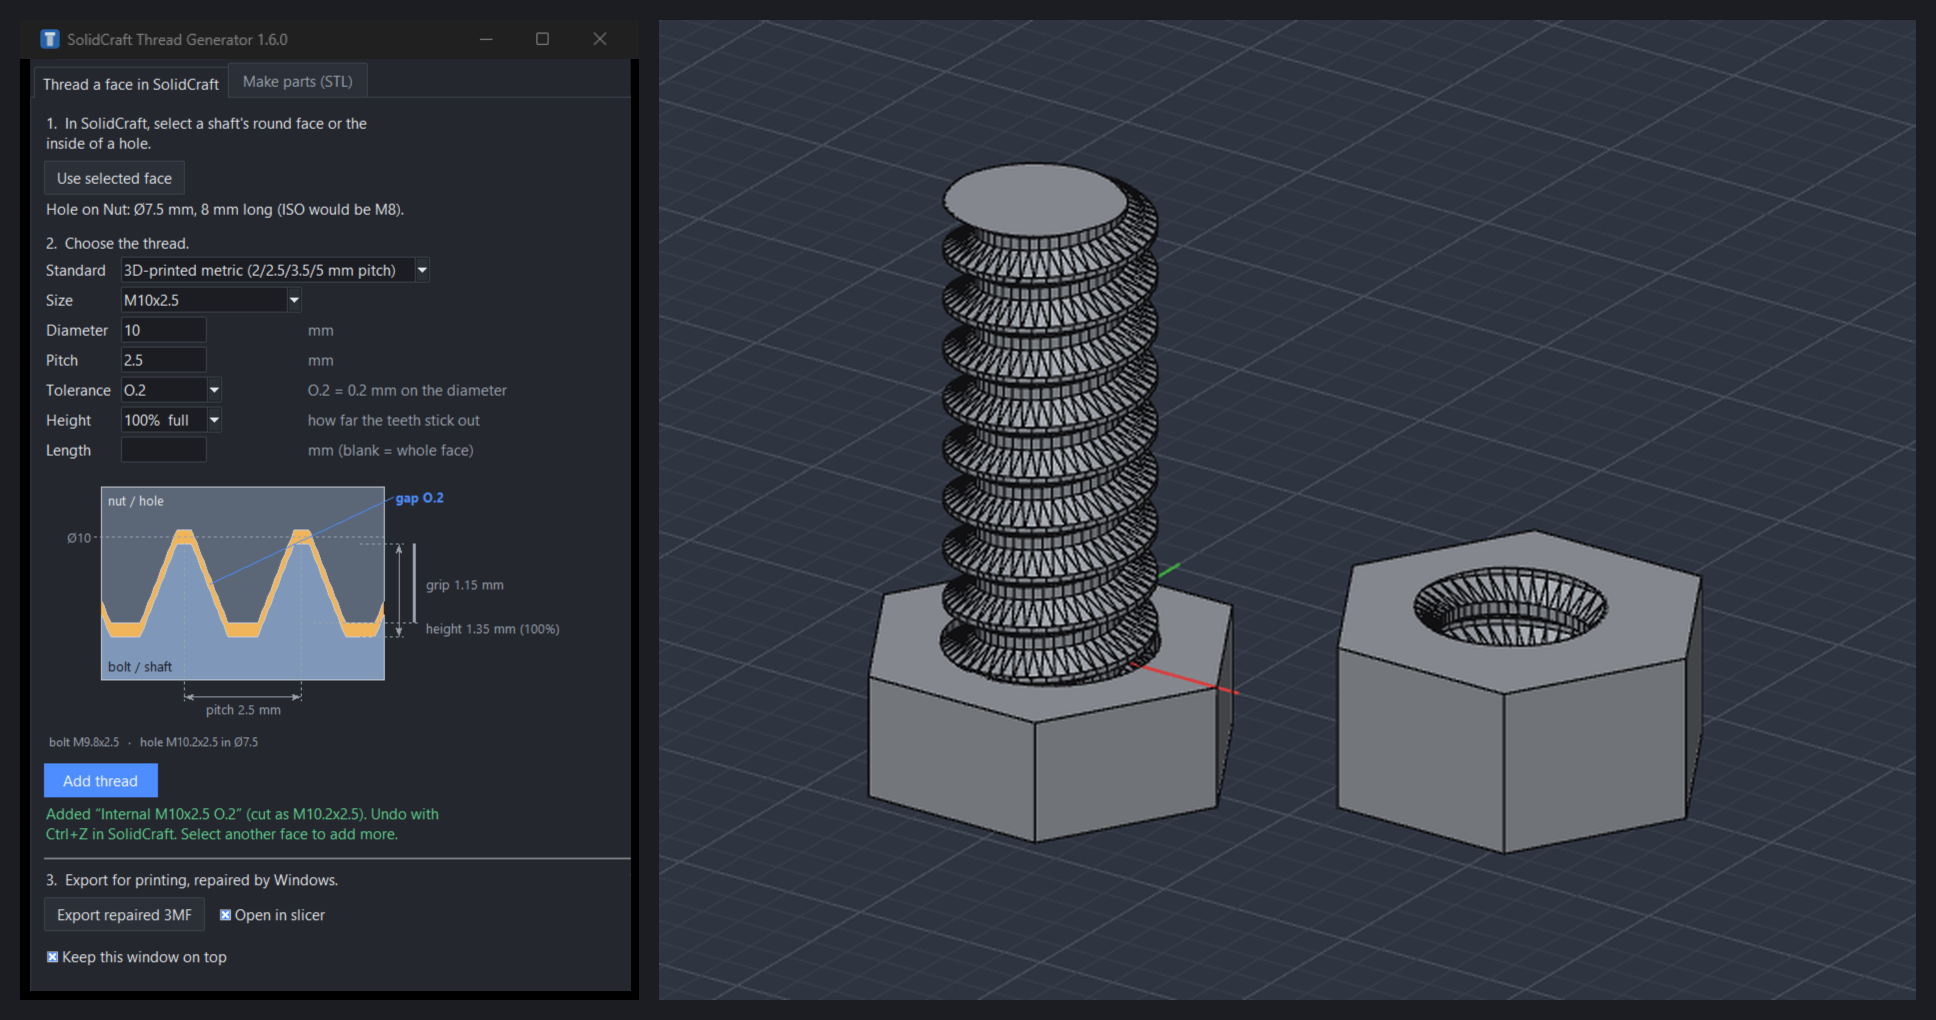
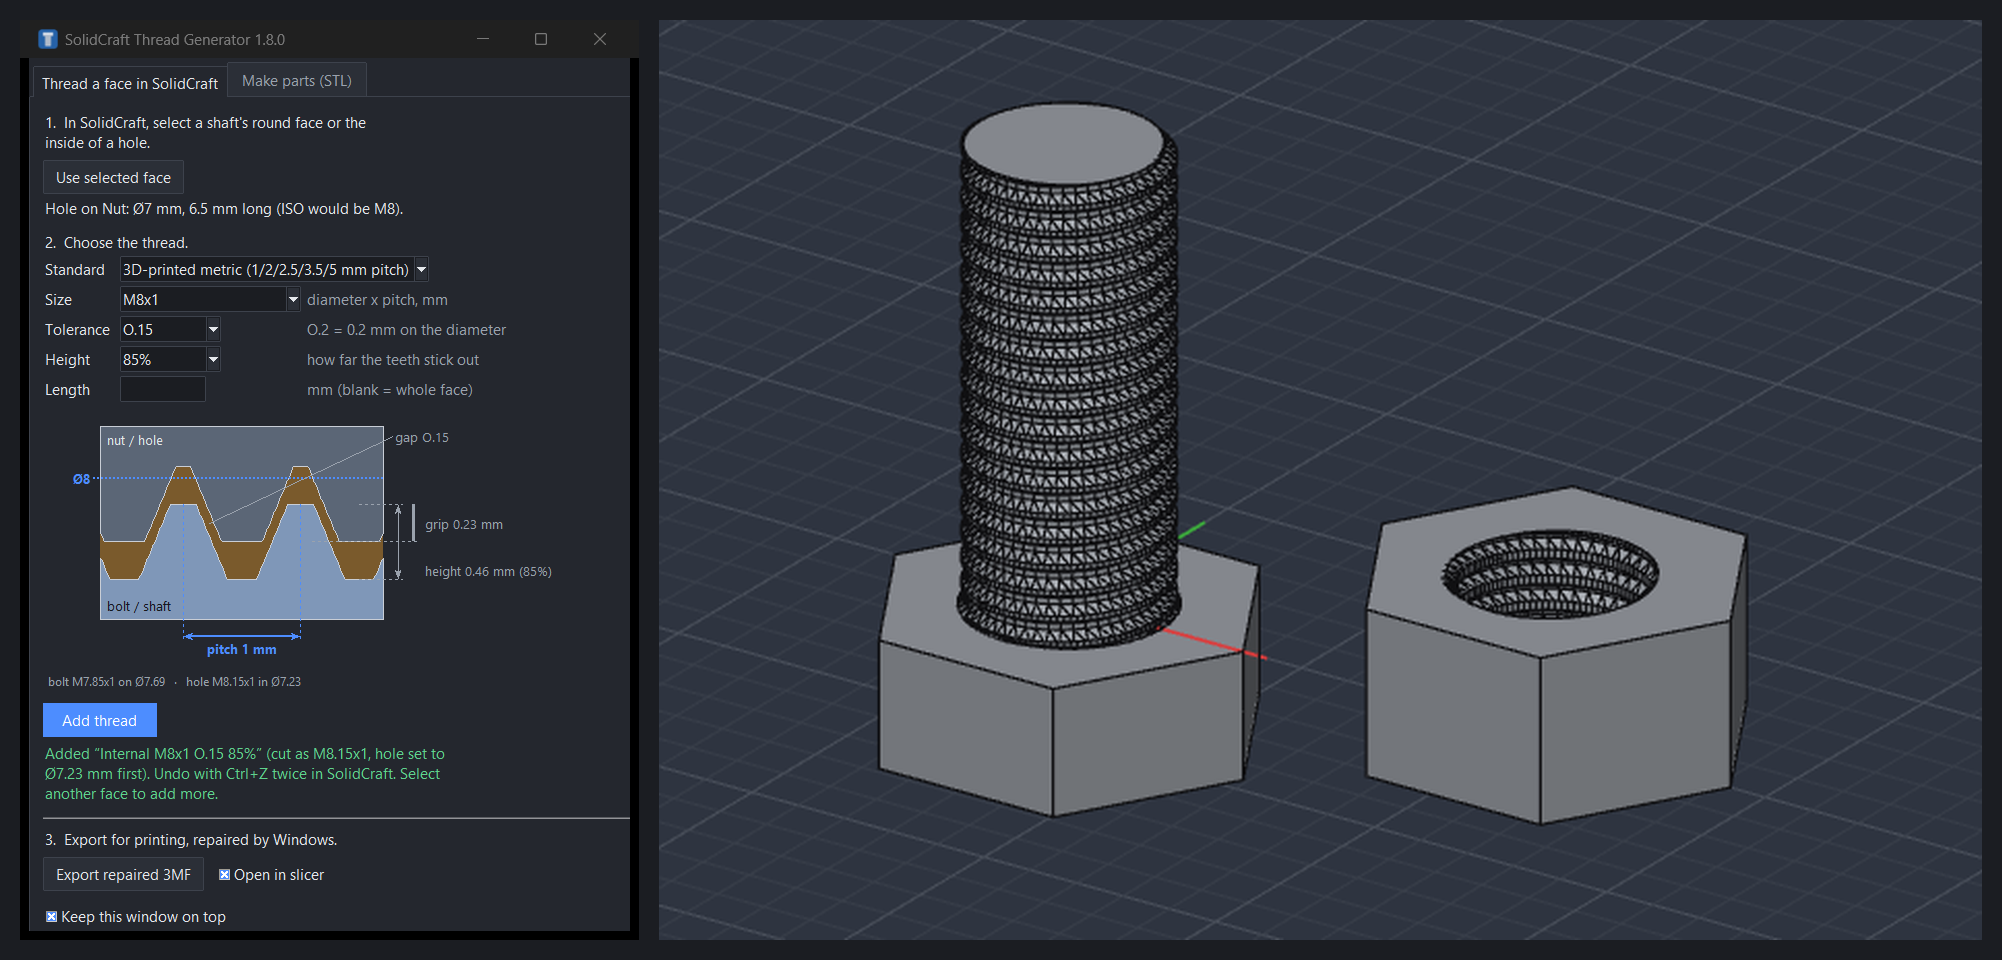
README: new screenshot with the 1.8.0 panel and defaults
Shows the single Size field and the defaults M8x1, O.15 and 85%, with the
thread cut into a bolt and a nut in SolidCraft.

diff --git a/README.md b/README.md
@@ -5,7 +5,7 @@ select a shaft or a hole in SolidCraft, pick a size, tolerance and height, and
 the thread is cut into your model. It can also export a repaired 3MF for your
 slicer, and make bolts, nuts, threaded rods and thread cutters as STL.
 
-![The Thread Generator panel in dark mode beside SolidCraft, with an M10x2.5 thread cut into a bolt and a nut](docs/screenshot.png)
+![The Thread Generator panel in dark mode beside SolidCraft, with an M8x1 thread (tolerance O.15, height 85%) cut into a bolt and a nut](docs/screenshot.png)
 
 ## Install
 
